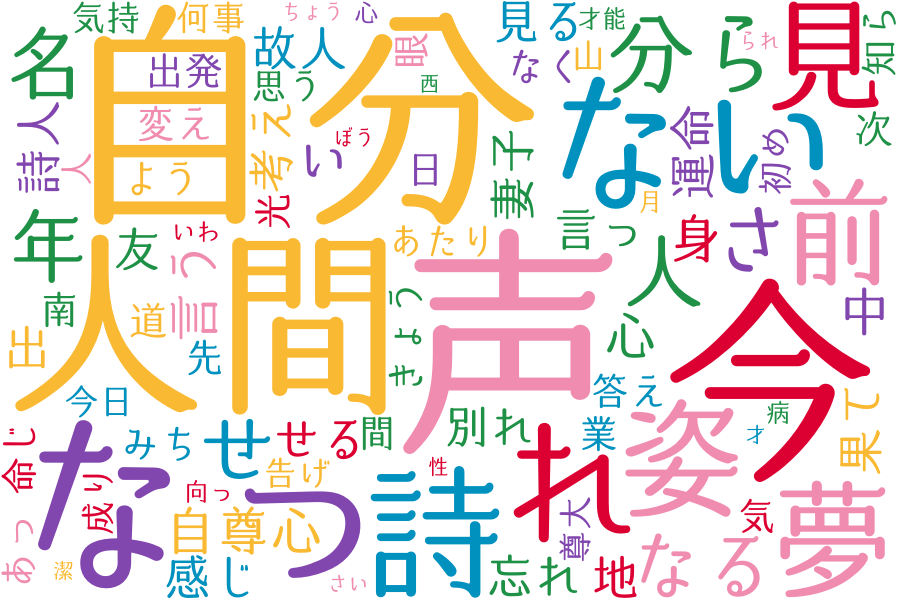
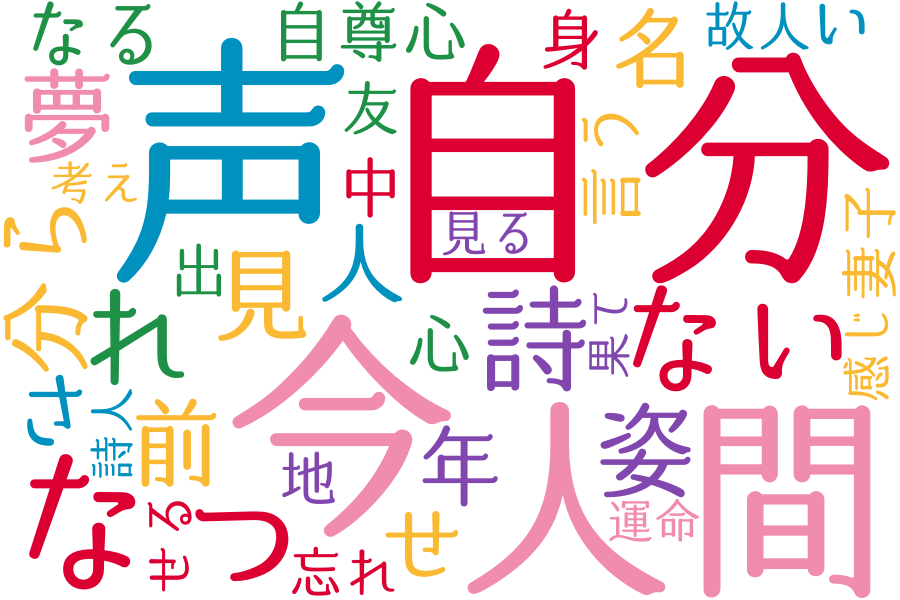
eight commit

diff --git a/word.py b/word.py
@@ -113,7 +113,7 @@ def create_cloud(data):
             height=600,
             background_color="white",
             stopwords=set(stop_words),
-            max_words=100,
+            max_words=70,
             min_font_size=4,
             collocations=False,
             color_func=custom_color,
